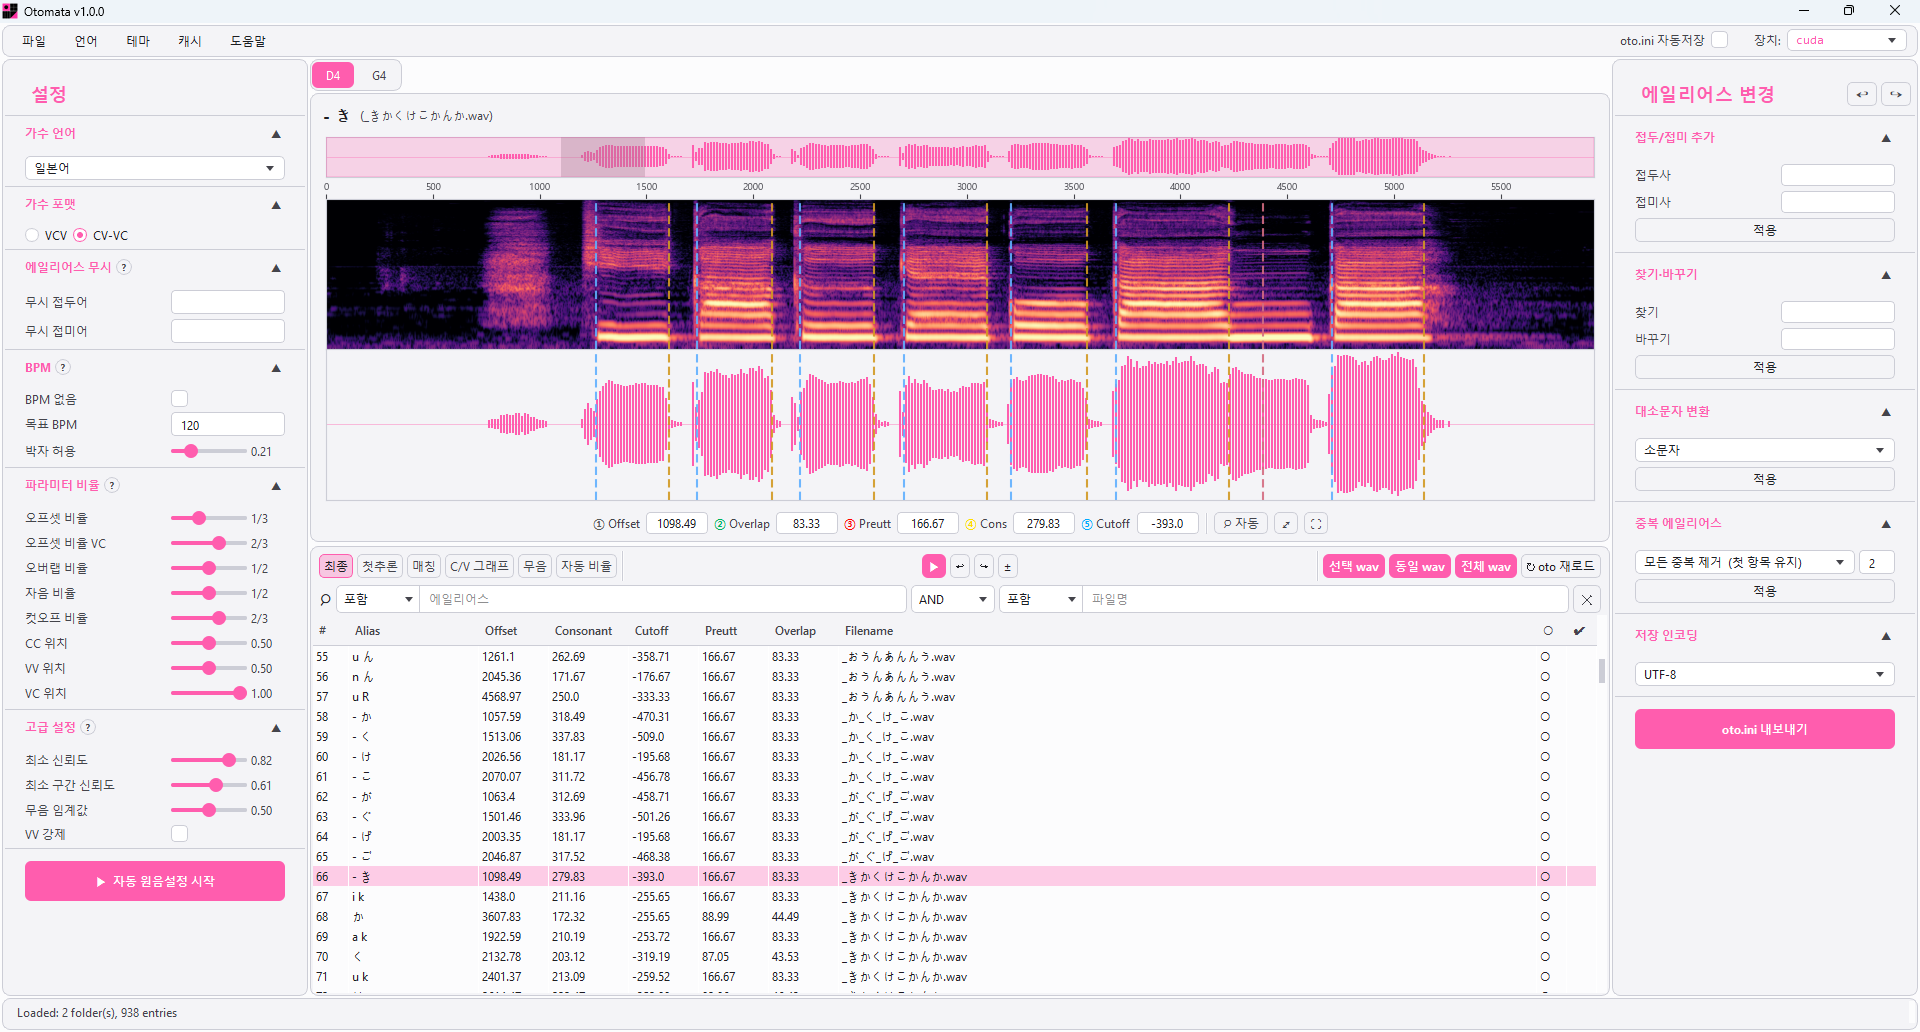
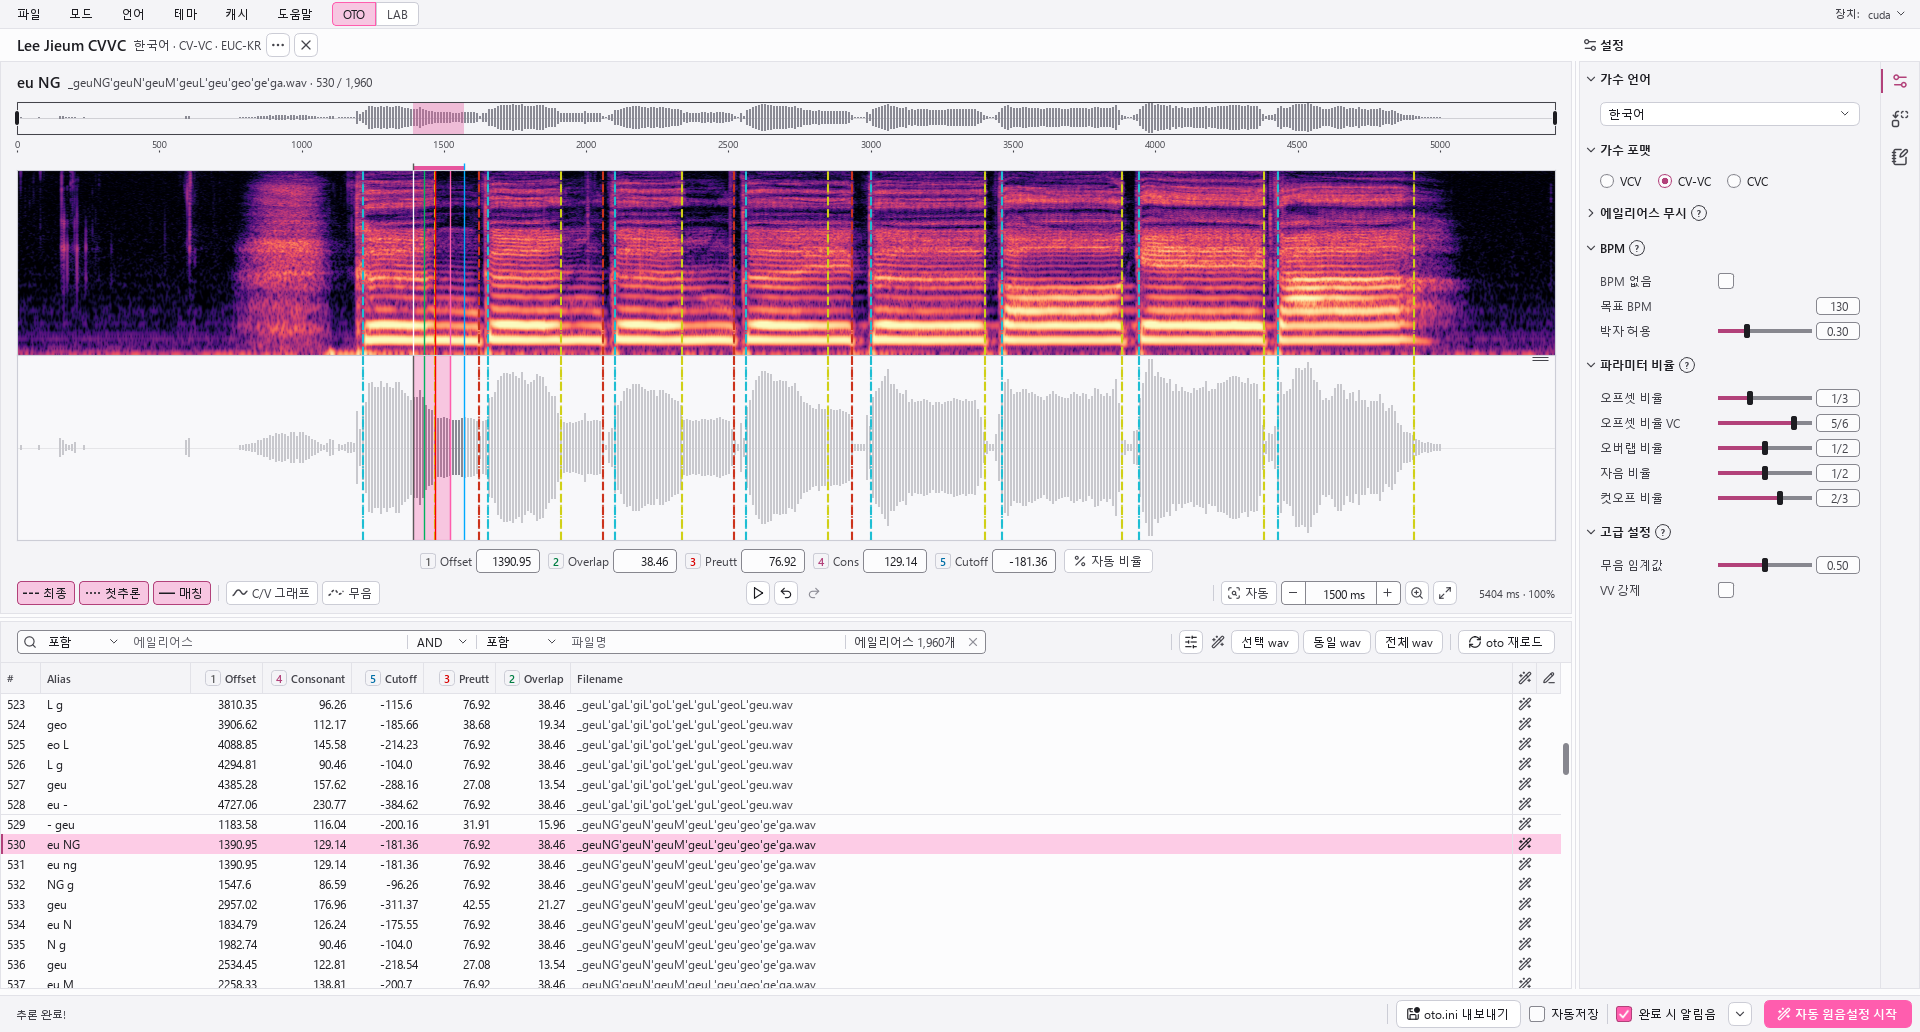
정식 출시 준비: README · EULA
- README: 정식판 안내(가격 · 다운로드 · 키 등록 · 기능 · AI 사용 고지 · @otomata_lab), 스크린샷 교체
- LICENSE.md: 정식판 EULA(라이선스 키 · PC 3대 · 환불 요약, 이용약관 우선, 제3자 구성요소)

diff --git a/README.md b/README.md
@@ -2,80 +2,97 @@
   <img src="assets/header.png" alt="Otomata" width="720">
 </p>
 
-UTAU 보이스뱅크 **자동 원음설정(oto.ini)** 프로그램 — AI 기반 경계 검출로 oto.ini를 자동 생성합니다.
+UTAU 음원의 **원음설정(oto.ini)을 AI 로 자동 배치**하는 Windows 프로그램입니다.
+파일명으로 에일리어스를 만들고, 녹음을 듣고 음소 경계를 찾아 몇 분 만에 초안을 완성합니다.
 
-AI-powered automatic oto.ini generator for UTAU voicebanks.
+AI-powered oto.ini tool for Japanese and Korean UTAU voicebanks.
+*(English below is machine-translated from Korean.)*
 
-> ⏳ **무료 베타가 종료되었습니다 (2026. 8. 22 – 8. 31).** 베타 빌드는 더 이상 실행되지 않습니다.
-> **정식 버전은 2026년 10월 중 출시 예정**입니다 — 소식은 [@matax2bi](https://x.com/matax2bi)와 [otomata.app](https://otomata.app)에서 알려드립니다.
-> 베타에 참여해 주신 분들, 보내주신 오류 신고와 의견 모두 감사합니다. 정식 버전에 반영되고 있습니다.
->
-> *The free beta has ended (Aug 22–31, 2026) and beta builds no longer run. The full release is planned for October 2026 — follow [@matax2bi](https://x.com/matax2bi) or [otomata.app](https://otomata.app) for updates.*
+**홈페이지 · 구매: [otomata.app](https://otomata.app)** · 소식: [@otomata_lab](https://x.com/otomata_lab)
 
 <p align="center">
   <img src="assets/screenshot.png" alt="Otomata 스크린샷 — 스펙트로그램 위에서 원음설정 경계를 확인·편집" width="900">
 </p>
 
+## 가격 / Pricing
+
+프로그램은 **무료**입니다. 음원 불러오기 · 보기 · 재생 · 직접 편집 · oto.ini 내보내기 · LAB 편집은 키 없이 됩니다.
+**라이선스 키**가 있으면 AI 자동 원음설정이 열립니다.
+
+- **출시 기념가 ₩30,000** (2026년 12월 31일까지 · 이후 정가 ₩50,000) — 1회 구매, 구독 아님
+- 키 하나로 PC 3대 · 업데이트 평생 무료 · 만든 원음설정과 음원은 상업적 이용 자유
+- 구매 · 환불 규정: [otomata.app](https://otomata.app) · [이용약관](https://otomata.app/terms.html)
+
+*The app is free. A license key (one-time ₩30,000 launch price until Dec 31, 2026, then ₩50,000) unlocks AI Auto Otoing — up to 3 PCs, free updates for life. Buy at [otomata.app](https://otomata.app/?lang=en).*
+
 ## 다운로드 / Download
 
-현재 받을 수 있는 빌드가 없습니다. [Releases](../../releases)에 남아 있는 베타 설치파일은 기간이 만료되어 실행되지 않습니다. 아래 설명은 정식 버전 배포 시에도 같은 구성이므로 참고용으로 남겨둡니다.
-
-*No downloadable build right now — the beta installers on the Releases page have expired. The notes below describe the packaging the full release will also use.*
+**[Releases](../../releases/latest)** 에서 받으세요.
 
 | 파일 | 대상 |
 |---|---|
-| `Otomata-x.x.x-Setup-GPU.exe` + `-GPU-1.bin` + `-GPU-2.bin` | **NVIDIA GPU** 사용자 (CUDA 가속, 용량 큼) |
-| `Otomata-x.x.x-Setup-CPU.exe` | GPU가 없거나 NVIDIA가 아닌 경우 (용량 작음) |
+| `Otomata-x.x.x-Setup-GPU.exe` + `-GPU-1.bin` + `-GPU-2.bin` | **NVIDIA GPU** 사용자 (CUDA 가속, 약 2.5 GB) |
+| `Otomata-x.x.x-Setup-CPU.exe` | GPU가 없거나 NVIDIA가 아닌 경우 (약 660 MB) |
 
-어느 것을 받을지 모르겠다면 → **CPU 버전**을 받으세요. 어느 버전이든 기능은 동일하며, GPU 버전은 추론 속도만 빠릅니다.
+어느 것을 받을지 모르겠다면 → **CPU 판**을 받으세요. 결과는 같고 GPU 판은 속도만 빠릅니다.
 
-> **GPU 버전 설치:** 용량 제한 때문에 파일이 3개로 나뉘어 있습니다.
-> `Setup-GPU.exe`, `Setup-GPU-1.bin`, `Setup-GPU-2.bin` **세 파일을 모두 받아 같은 폴더에 둔 뒤** `Setup-GPU.exe`를 실행하면 자동으로 합쳐져 설치됩니다.
+> **GPU 판 설치:** 용량 제한 때문에 파일이 3개로 나뉘어 있습니다. **세 파일을 모두 같은 폴더에 받은 뒤** `Setup-GPU.exe`를 실행하세요.
 >
-> **GPU install:** the GPU installer is split into 3 files due to size limits. Download **all three** into the same folder, then run `Setup-GPU.exe`.
+> *GPU edition: download **all three files** into the same folder, then run `Setup-GPU.exe`.*
 
-**파일이 큰 이유:** Otomata는 설치 후 아무것도 추가로 내려받지 않도록 AI 추론 모델과 실행에 필요한 모든 구성요소(ONNX Runtime, Python 런타임, Qt 라이브러리)를 내장합니다. GPU 버전은 여기에 CUDA·cuDNN 라이브러리(이것만 수 GB)까지 동봉해 CUDA를 따로 설치할 필요가 없게 했고, 그래서 용량이 커져 3개 파일로 나눠 배포합니다.
+설치한 뒤에는 앱이 새 버전을 알려 주고, 바뀐 파일만 받아 업데이트합니다.
+*After installation the app checks for updates and installs them for you.*
 
-*Why so large: the AI model and the full runtime (ONNX Runtime, Python, Qt) are bundled so the app works offline out of the box; the GPU build also bundles the CUDA/cuDNN libraries so you don't have to install CUDA yourself.*
+**파일이 큰 이유:** 설치 뒤 아무것도 더 내려받지 않도록 AI 모델과 실행 구성 요소(ONNX Runtime, Python 런타임, Qt)를 모두 넣었습니다. GPU 판은 CUDA · cuDNN 라이브러리까지 넣어 CUDA 를 따로 설치할 필요가 없습니다.
 
-### ⚠ Windows SmartScreen 경고가 뜨는 경우
+### ⚠ 'Windows의 PC 보호' 창이 뜨는 경우
 
-베타 버전은 코드 서명이 없어 설치 시 파란색 SmartScreen 경고가 뜰 수 있습니다.
-**「추가 정보」 → 「실행」** 을 누르면 설치가 진행됩니다.
+코드 서명이 없어 처음 설치할 때 파란 SmartScreen 창이 뜰 수 있습니다. **「추가 정보」 → 「실행」** 을 누르세요.
+*If "Windows protected your PC" appears, click **More info → Run anyway**.*
 
-If Windows SmartScreen appears, click **"More info" → "Run anyway"**.
+## 키 등록 / Activating your key
 
-## 시스템 요구사항 / Requirements
+1. 결제하면 라이선스 키가 메일로 옵니다.
+2. 앱의 **도움말 → 라이선스… → 키 입력…** 에 붙여 넣습니다(처음 한 번 인터넷 연결 필요, 이후 오프라인 사용).
+3. 다른 PC 로 옮길 때는 같은 창에서 이 PC 를 해제하세요.
+
+*Paste the key from your receipt e-mail in **Help → License… → Enter key…** (internet needed once).*
+
+## 사용 환경 / Requirements
 
 - Windows 10 / 11 (64-bit)
-- GPU 버전: NVIDIA GPU (CUDA 12 지원 드라이버)
+- GPU 판: NVIDIA 그래픽카드 + CUDA 12 지원 드라이버
 
 ## 주요 기능 / Features
 
-- 한국어(CV-VC / VCV) · 일본어(CV-VC / VCV) 보이스뱅크 자동 원음설정
-- 스펙트로그램 + 경계 시각 편집
-- BPM 기반 / BPM 없는 녹음 모두 지원
-- oto.ini 내보내기 · 자동저장 · 편집 상태(oto.omt) 보존
+- 파일명으로 에일리어스 자동 생성 — 일본어 CV-VC · VCV(가나 · 로마자), 한국어 CV-VC · CVC · 연속음(VCV)
+- AI 경계 추론으로 오프셋 · 오버랩 · 선행발성 · 자음부 · 블랭크 자동 배치(전체 · 고른 파일 · 같은 wav 만 다시)
+- 스펙트로그램 · 파형 위에서 마커를 끌어 편집, 실행 취소 · 단축키
+- 표준 oto.ini 읽기 · 쓰기, 편집 상태(.omt)로 이어서 작업, BPM 있는 / 없는 녹음 모두 지원
+- LAB 모드 — .lab 음소 경계 보기 · 직접 편집
+- 수동 모드(모델을 올리지 않고 편집만), 자동 업데이트
+- 화면 언어: 한국어 · 日本語 · English (일본어 · 영어는 기계 번역)
+
+*Alias generation from file names, AI placement of all oto parameters, waveform/spectrogram editor, standard oto.ini I/O, LAB editor, manual mode and automatic updates.*
 
 ## AI 사용 고지 / AI Disclosure
 
-이 프로그램의 코드 일부는 **AI(Claude)와 함께 제작**되었습니다.
-AI가 작성한 코드를 피하고 싶으신 분들을 위해 미리 알려드리며,
-사실관계를 정확히 밝히기 위해 크레딧에도 Claude를 포함했습니다.
+- **AI 모델:** 자동 원음설정은 음소 경계를 찾는 AI 모델이 합니다. 이 모델은 개발자 본인 데이터, 서면 동의를 받은 데이터 제공자의 녹음 · 라벨, 이용이 허락된 공개 학습용 데이터로 학습했으며, 웹에서 무단으로 모은 데이터는 쓰지 않았습니다. 목소리를 만들거나 흉내 내지 않으며, 사용자의 녹음은 PC 밖으로 나가지 않습니다.
+- **코드:** 이 프로그램의 코드 일부는 **AI(Claude)와 함께 제작**되었습니다. AI가 작성한 코드를 피하고 싶으신 분들을 위해 미리 알려드리며, 사실관계를 정확히 밝히기 위해 크레딧에도 Claude를 포함했습니다.
 
-Parts of this program were developed together with AI (Claude).
-This notice is provided in advance for those who prefer to avoid AI-written code,
-and Claude is listed in the credits for the sake of accuracy.
+*The Auto Otoing model was trained on the developer's own data, recordings and labels contributed with written consent, and public datasets licensed for AI training — no data scraped from the web. It does not generate or imitate voices, and your recordings never leave your PC. Parts of the program's code were developed together with AI (Claude); this is disclosed in advance for those who prefer to avoid AI-written code, and Claude is listed in the credits.*
 
 ## 크레딧 / Credits
 
-- 제작: [@matax2bi](https://x.com/matax2bi)
-- 데이터 기여: 혜성 [@comet_UTAU](https://x.com/comet_UTAU)
+- 제작: 새온 (Saeon) · [@otomata_lab](https://x.com/otomata_lab) · 개발자 [@matax2bi](https://x.com/matax2bi)
+- 데이터 기여: 혜성 [@comet_UTAU](https://x.com/comet_UTAU) 외 데이터 제공자 여러분
 - 개발 협업: Claude (Anthropic)
 - Built with PySide6 · librosa · matplotlib · ONNX Runtime
 
 ## 라이선스 / License
 
-Otomata는 **독점(proprietary) 소프트웨어**입니다. 개인·상업적 사용은 자유이며, 프로그램으로 만든 결과물(oto.ini, 보이스뱅크 등)은 상업적으로 이용할 수 있습니다. 다만 프로그램의 수정·역공학·재배포는 금지됩니다. 자세한 내용은 [LICENSE.md](LICENSE.md)를 참고하세요.
+Otomata는 **독점(proprietary) 소프트웨어**입니다. 프로그램으로 만든 결과물(oto.ini, 음원 등)은 사용자의 것이며 상업적으로 이용할 수 있습니다. 프로그램의 수정 · 역설계 · 재배포와 키 공유는 금지됩니다. 자세한 내용은 [LICENSE.md](LICENSE.md)와 [이용약관](https://otomata.app/terms.html)을 참고하세요.
 
-Otomata is proprietary software — free for personal and commercial **use** (your output is yours), but modification, reverse engineering, and redistribution are prohibited. See [LICENSE.md](LICENSE.md).
+*Otomata is proprietary software. Your output is yours and may be used commercially; modifying, reverse engineering or redistributing the program and sharing keys are prohibited. See [LICENSE.md](LICENSE.md) and the [Terms of Use](https://otomata.app/terms.html).*
+
+문의 / Contact: contact@otomata.app

diff --git a/LICENSE.md b/LICENSE.md
@@ -1,53 +1,63 @@
 # Otomata 최종 사용자 라이선스 계약 (EULA)
 
-**© 2026 새온 (matax2bi). All rights reserved.**
+**© 2026 새온 (Saeon). All rights reserved.** · 시행 2026년 10월 16일
 
 본 소프트웨어(Otomata, 이하 "프로그램")는 오픈소스가 아닌 **독점(proprietary) 소프트웨어**입니다.
-프로그램을 설치하거나 사용하면 아래 조건에 동의한 것으로 간주됩니다.
+프로그램을 설치하거나 사용하면 아래 조건과 **[이용약관](https://otomata.app/terms.html)** 에 동의한 것으로 간주됩니다.
+라이선스 키 · 결제 · 환불 · 책임 제한 등 이 문서에 없는 사항과, 이 문서와 이용약관이 다를 때는 **이용약관이 우선**합니다.
 
-## 1. 허용되는 것
+## 1. 무료 기능과 라이선스 키
 
-- 프로그램을 **개인적·상업적 목적으로 설치·사용**할 수 있습니다.
-- 프로그램으로 생성한 결과물(oto.ini, oto.omt 등)의 권리는 **사용자에게 있으며**,
-  이를 활용해 만든 보이스뱅크·음원 등은 **상업적으로 이용·판매할 수 있습니다.**
+- 프로그램은 무료로 설치 · 사용할 수 있습니다(개인 · 상업 목적 모두). 음원 불러오기 · 보기 · 재생 · 직접 편집 · oto.ini 내보내기 · LAB 편집은 키 없이 됩니다.
+- **자동 원음설정(AI 추론)** 은 유료 **라이선스 키**가 있어야 합니다. 라이선스는 1회 구매이며, 키 하나로 구매자가 쓰는 **PC 3대**까지 활성화할 수 있습니다.
+- 키는 구매자 본인에게만 주어지며 공유 · 재판매 · 공개 · 양도할 수 없습니다. 환불 · 결제 취소되었거나 공유가 확인된 키는 비활성화될 수 있습니다.
+- 처음 활성화할 때 한 번 인터넷 연결이 필요하며, 이후 인터넷에 연결되면 약 7일마다 키를 다시 확인합니다.
+- 구매한 판의 업데이트는 평생 무료입니다(별도로 판매하는 판 · 추가 기능 제외).
+- 환불: 구매 후 7일 이내 이유와 관계없이, 14일 이내 키 미활성 시, 설명대로 작동하지 않는 경우 — 자세한 기준은 이용약관 제7조.
 
-## 2. 금지되는 것
+## 2. 결과물
+
+프로그램으로 만든 결과물(oto.ini, .lab, oto.omt 등)의 권리는 **사용자에게 있으며**, 이를 활용해 만든 음원 등은 **상업적으로 이용 · 판매할 수 있습니다.** 다른 사람이 만든 음원에 대한 권리는 부여하지 않습니다.
+
+## 3. 금지되는 것
 
 - 프로그램의 **수정, 개작, 2차적 저작물 제작**
-- **역공학, 디컴파일, 디스어셈블**, 소스 코드 추출 시도 (관련 법이 명시적으로 허용하는 범위 제외)
-- 프로그램 전체 또는 일부 파일의 **재배포, 재판매, 대여, 임대, 공유**
-- 보호 장치(난독화 등)의 우회 또는 제거
-- 내장 모델·데이터를 프로그램 외부에서 추출·사용하는 행위
+- **역설계, 디컴파일, 디스어셈블**, 소스 코드 추출 시도 (관련 법이 명시적으로 허용하는 범위 제외)
+- 프로그램 전체 또는 일부 파일의 **재배포, 재판매, 대여, 임대, 공유** (공식 다운로드 페이지 링크 공유는 괜찮습니다)
+- 라이선스 확인 · 보호 장치(난독화 등)의 우회 또는 제거
+- 내장 모델 · 데이터를 프로그램 외부에서 추출 · 사용하는 행위
 
-## 3. 베타 버전
+## 4. 보증 부인과 책임 제한
 
-- 베타 기간 중 프로그램은 무료로 제공되며, 베타 빌드에는 사용 기한이 있을 수 있습니다.
-- 프로그램은 **"있는 그대로(AS IS)" 제공**되며, 상품성·특정 목적 적합성에 대한 어떠한 보증도 하지 않습니다.
-- 프로그램 사용으로 발생한 손해에 대해 저작권자는 관련 법이 허용하는 최대 범위 내에서 책임을 지지 않습니다.
+프로그램은 **"있는 그대로(AS IS)" 제공**되며, 자동 원음설정 결과는 AI 가 만든 초안입니다. 법이 허용하는 범위에서 저작권자의 책임은 사용자가 라이선스에 지불한 금액을 한도로 합니다. 자세한 내용은 [면책 고지](https://otomata.app/disclaimer.html)와 이용약관 제9조를 따릅니다.
 
-## 4. 제3자 구성요소
+## 5. 제3자 구성요소
 
-프로그램은 다음 오픈소스 구성요소를 포함하며, 각 구성요소에는 해당 라이선스가 적용됩니다.
+프로그램은 다음 오픈소스 · 제3자 구성요소를 포함하며, 각 구성요소에는 해당 라이선스가 적용됩니다.
 본 계약은 해당 라이선스가 부여하는 권리를 제한하지 않습니다.
 
 - PySide6 / Qt — LGPL-3.0
 - ONNX Runtime — MIT
+- PyTorch — BSD-3-Clause
 - librosa — ISC
 - NumPy / SciPy — BSD-3-Clause
+- Numba — BSD-2-Clause
 - matplotlib — PSF 기반 라이선스
+- cryptography — Apache-2.0 / BSD
+- Lucide icons — ISC
+- (GPU 판) NVIDIA CUDA · cuDNN 런타임 — NVIDIA 소프트웨어 라이선스
 
 ---
 
 # Otomata End User License Agreement (Summary)
 
-**© 2026 saeon (matax2bi). All rights reserved.** This is proprietary software, not open source.
+*Machine-translated from Korean. The Korean text above and the [Terms of Use](https://otomata.app/terms.html) prevail.*
 
-- **You may** install and use the program for personal or commercial purposes.
-  Output you create with it (oto.ini, voicebanks, etc.) belongs to **you** and may be used commercially.
-- **You may not** modify, reverse-engineer, decompile, redistribute, resell, rent, or share
-  the program or any part of it, or circumvent its protection measures.
-- Beta builds are provided free of charge, may have an expiry date, and are provided
-  **"AS IS"** without warranty of any kind.
-- Third-party open-source components (PySide6/Qt under LGPL-3.0, ONNX Runtime under MIT,
-  librosa under ISC, NumPy/SciPy under BSD, matplotlib) retain their own licenses,
-  which this agreement does not restrict.
+**© 2026 Saeon. All rights reserved.** This is proprietary software, not open source. Effective October 16, 2026.
+
+- **Free to use:** you may install and use the program for personal or commercial purposes. Viewing, playback, manual editing, oto.ini export and LAB editing need no key.
+- **License key:** AI Auto Otoing requires a paid license key — a one-time purchase that can be activated on up to **3 PCs**. Keys are personal and may not be shared, resold or transferred. One online activation is needed; the key is re-checked about every 7 days when online. Free updates for life for the edition you bought. Refunds: within 7 days for any reason, within 14 days if never activated, or if it does not work as described (Terms of Use, section 7).
+- **Your output** (oto.ini, .lab, voicebanks, etc.) belongs to **you** and may be used commercially.
+- **You may not** modify, reverse-engineer, decompile, redistribute, resell, rent or share the program or any part of it, bypass license checks or protection measures, or extract the bundled models.
+- Provided **"AS IS"**; liability is limited to the amount you paid, as far as the law allows. See the [Disclaimer](https://otomata.app/disclaimer.html).
+- Third-party components (PySide6/Qt under LGPL-3.0, ONNX Runtime under MIT, PyTorch, NumPy/SciPy under BSD, librosa under ISC, Numba, matplotlib, cryptography, Lucide, and NVIDIA CUDA/cuDNN in the GPU edition) keep their own licenses, which this agreement does not restrict.
